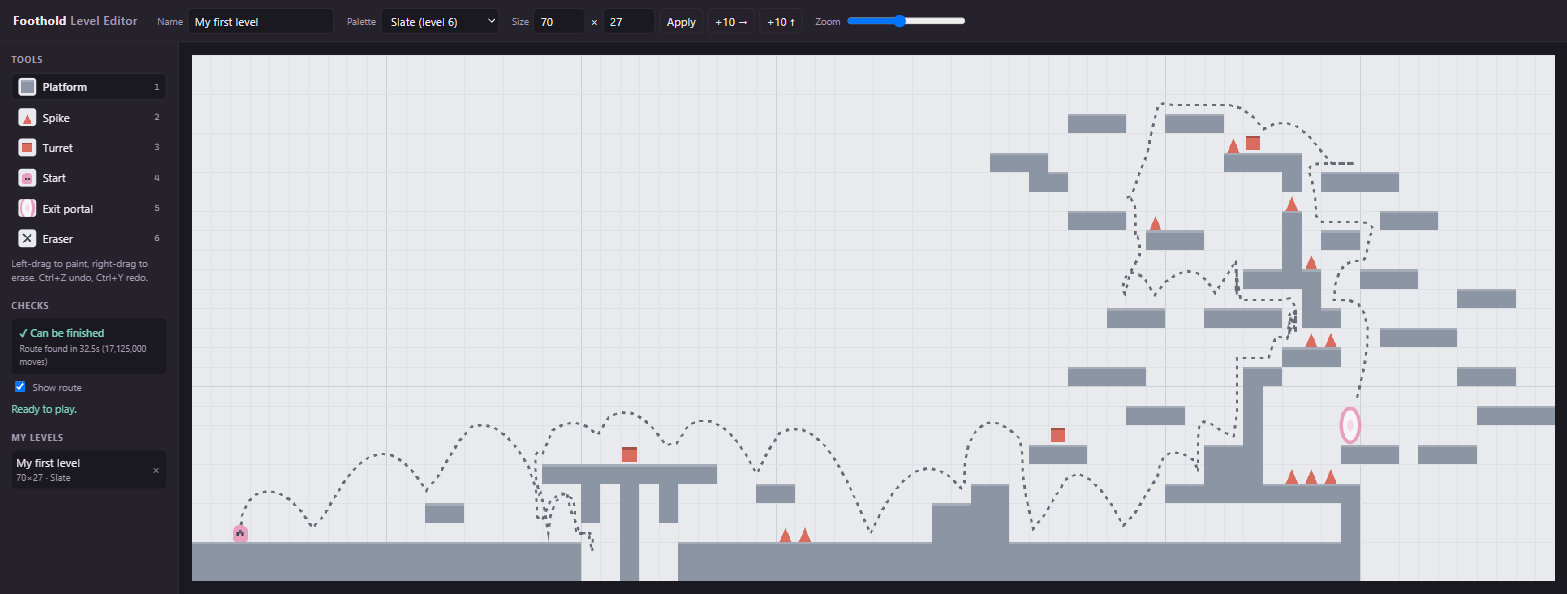
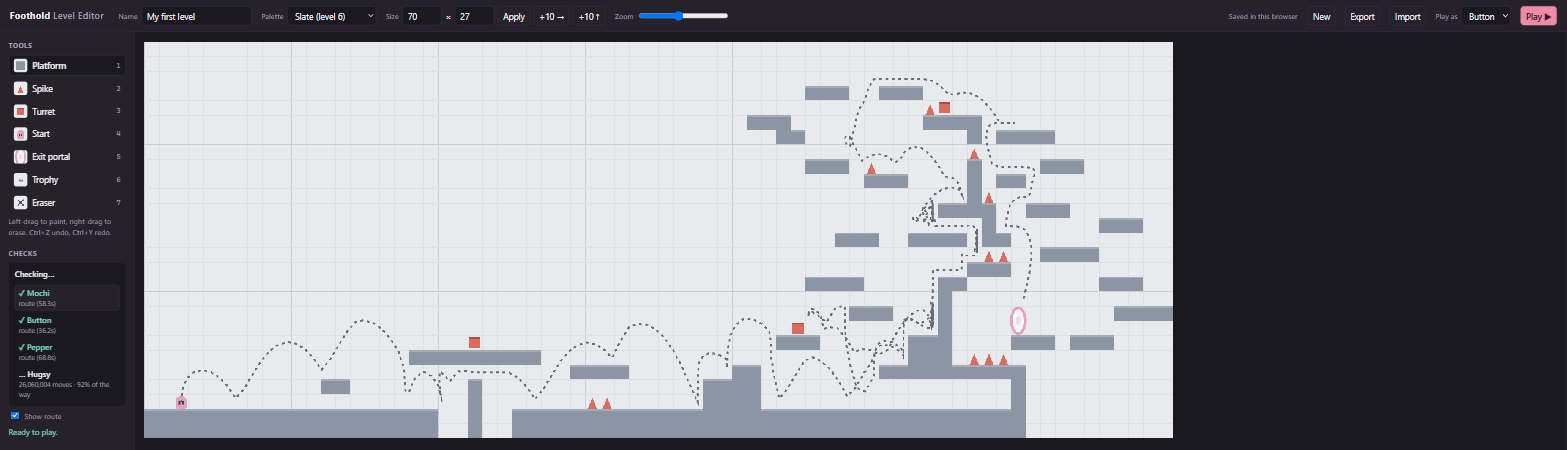
Refresh the screenshots for Foothold and the Tufflings
The old ones still showed the Stepladder title and the original flat
block player. Retaken with the current game, at the same 1456x819:

- the-climb: Mochi mid-leap beside a turret's ledge (README hero)
- ground-floor: Button jumping for the Lost Button trophy
- ascent: Pepper leaping a spike on the diagonal
- menu: the title screen with the whole cast and the Tufflings/Trophies rows
- tufflings (new): the Tufflings screen with stat bars
- hugsy (new): Hugsy hanging from the underside of a ledge
- editor: per-Tuffling checks, the Trophy tool and Play as

README captions and alt text updated to match.

diff --git a/README.md b/README.md
@@ -2,7 +2,7 @@
 
 > The things trying to kill you are also the only way up.
 
-![Foothold — the player mid-leap toward a turret on a platform above, in the vertical level The Climb](docs/screenshots/the-climb.png)
+![Foothold — Mochi mid-leap beside a turret on the ledge above, in the vertical level The Climb](docs/screenshots/the-climb.png)
 
 A pastel 2D procedurally-generated side-scroller. Six levels across three
 orientations — run right, climb up, and ascend diagonally — all driven by one
@@ -17,11 +17,13 @@ notes — invariants, environment traps, how to verify changes, and what is open
 
 ## Screenshots
 
-| Ground Floor — the horizontal opener | Ascent — diagonal, with spikes |
+| Ground Floor — Button jumping for a trophy | Ascent — Pepper leaping a spike |
 | :--- | :--- |
-| ![Running right and leaping a pit, with parallax platforms behind](docs/screenshots/ground-floor.png) | ![Leaping a spike on a diagonal climb](docs/screenshots/ascent.png) |
-| **Level select** | **The palette shifts every level** |
-| ![The level select screen listing six levels](docs/screenshots/menu.png) | Mint, lavender, peach, sky, rose, slate — four colours each. |
+| ![Button, the light Tuffling, rising toward the Lost Button trophy above the platforms of Ground Floor](docs/screenshots/ground-floor.png) | ![Pepper, the fast Tuffling, mid-leap over a spike on a diagonal climb, with a walker bot below](docs/screenshots/ascent.png) |
+| **Title screen** | **Pick your Tuffling** |
+| ![The title screen: Mochi beside the Foothold title, the six levels, Tufflings and Trophies, and the other Tufflings idling on ledges at the sides](docs/screenshots/menu.png) | ![The Tufflings screen: Mochi, Button, Pepper and Hugsy side by side with heart eyes, and Mochi's jump, speed and climb bars](docs/screenshots/tufflings.png) |
+| **Hugsy hangs from ceilings and climbs walls** | **The palette shifts every level** |
+| ![Hugsy, the climber, hanging from the underside of a ledge in The Climb](docs/screenshots/hugsy.png) | Mint, lavender, peach, sky, rose, slate — four colours each. |
 
 ---
 

diff --git a/custom-levels/README.md b/custom-levels/README.md
@@ -3,11 +3,11 @@
 Hand-built levels from the level editor (`/editor.html`), **playable but not
 shipped**. Nothing in this folder is loaded by the game or included in a build.
 
-![The level editor: tools on the left, a level being built in the Slate palette, and a dotted route from start to portal after the check found it can be finished](../docs/screenshots/editor.png)
+![The level editor: tools on the left including Trophy, a level in the Slate palette with Mochi's dotted route from start to portal, the per-Tuffling checks (Mochi, Button and Pepper can finish it, Hugsy still being checked), and Play as in the top bar](../docs/screenshots/editor.png)
 
 Run `npm run dev` and open **http://localhost:5199/editor.html**. The dotted
-line is the editor's own check: it plays the level with the game's physics
-and draws the route it found to the portal.
+line is the editor's own check: it plays the level with the game's physics,
+once for each Tuffling, and draws the route it found to the portal.
 
 To add one: in the editor, press **Export** and save the `.json` file here.
 
